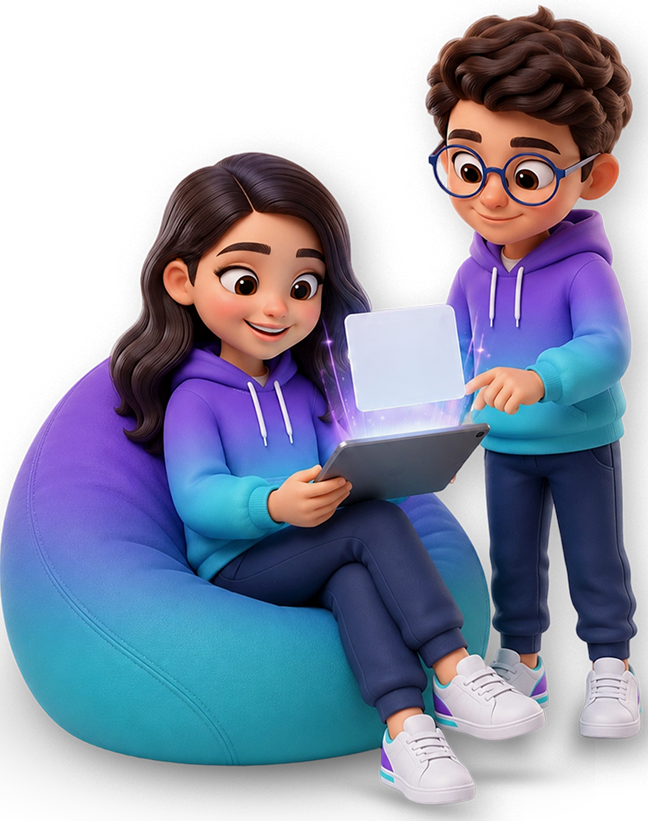
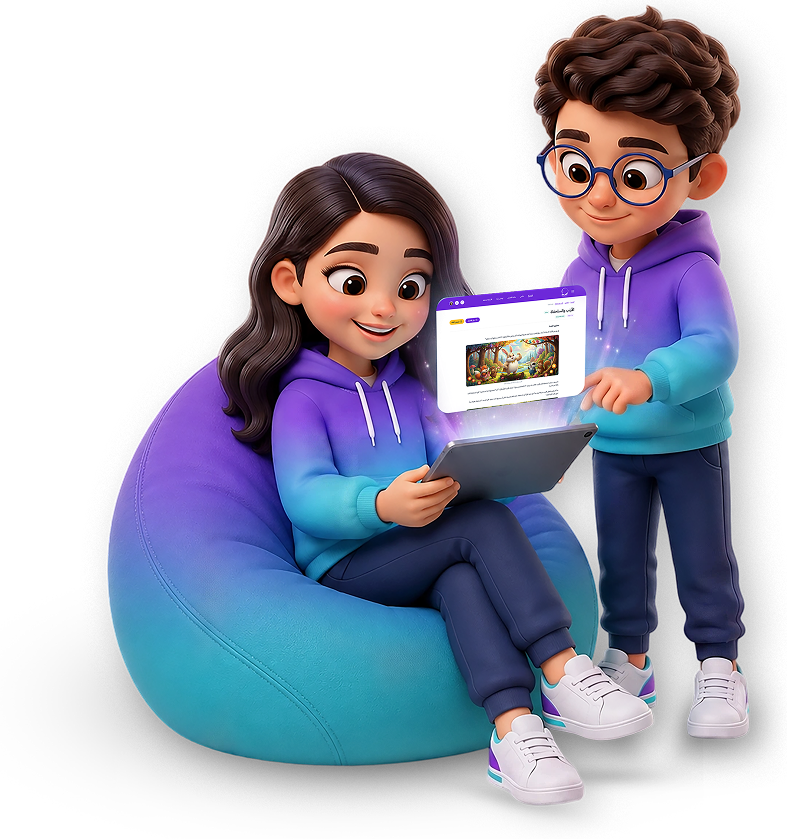
feat: implement responsive header, add 404 page, and install react-scroll dependency

diff --git a/src/app/not-found.tsx b/src/app/not-found.tsx
@@ -1,4 +1,3 @@
-import React from "react";
 import Link from "next/link";
 import Image from "next/image";
 import Header from "@/components/layout/header/Header";
@@ -12,14 +11,14 @@ export default function NotFound() {
       <Header />
 
       {/* Main 404 Hero Container */}
-      <main className="flex-1 flex items-center justify-center relative overflow-hidden py-12 sm:py-20 px-4 sm:px-6 lg:px-8">
+      <main className="flex-1 flex items-center justify-center relative overflow-hidden py-12 sm:py-24 px-4 sm:px-6 lg:px-8">
         {/* Ambient Background Glows */}
-        <div className="absolute top-1/2 right-1/2 transform translate-x-1/2 -translate-y-1/2 w-[500px] h-[500px] bg-mad-purple-200/30 rounded-full blur-3xl pointer-events-none" />
+        <div className="absolute top-1/2 right-1/2 transform translate-x-1/2 -translate-y-1/2 w-125 h-125 bg-mad-purple-200/30 rounded-full blur-3xl pointer-events-none" />
         <div className="absolute top-1/3 left-10 w-72 h-72 bg-mad-main-light/10 rounded-full blur-2xl pointer-events-none" />
 
         <div className="container relative z-10 max-w-4xl mx-auto text-center flex flex-col items-center">
           {/* Bouncing 404 Image Illustration */}
-          <div className="relative w-64 h-52 sm:w-80 sm:h-64 md:w-[440px] md:h-[320px] mx-auto select-none animate-bounce duration-1000">
+          <div className="relative w-64 h-52 sm:w-80 sm:h-64 md:w-110 md:h-80 mx-auto select-none animate-bounce duration-1000">
             <Image
               src="/assets/404.png"
               alt="404 - الصفحة غير موجودة"
@@ -40,11 +39,11 @@ export default function NotFound() {
           </p>
 
           {/* Action Buttons */}
-          <div className="mt-8 sm:mt-10 flex flex-wrap items-center justify-center gap-4 w-full max-w-lg">
+          <div className="mt-8 sm:mt-10 flex flex-wrap items-center justify-center gap-4 w-full ">
             {/* Primary Action Button */}
             <Link
               href="/"
-              className="bg-linear-to-r from-mad-purple-600 via-mad-purple-700 to-mad-purple-800 hover:from-mad-purple-700 hover:to-mad-purple-900 text-mad-white-50 font-bold mad-label-1 px-8 py-4 rounded-full inline-flex items-center justify-center gap-3 transition-all duration-300 shadow-lg shadow-mad-purple-600/30 hover:shadow-xl hover:shadow-mad-purple-600/40 hover:-translate-y-0.5 active:translate-y-0 active:scale-95 flex-1 min-w-[220px] group cursor-pointer"
+              className="bg-linear-to-r from-mad-purple-600 via-mad-purple-700 to-mad-purple-800 hover:from-mad-purple-700 hover:to-mad-purple-900 text-mad-white-50 font-bold mad-label-1 px-8 py-4 rounded-full inline-flex items-center justify-center gap-3 transition-all duration-300 shadow-lg shadow-mad-purple-600/30 hover:shadow-xl hover:shadow-mad-purple-600/40 hover:-translate-y-0.5 active:translate-y-0 active:scale-95 flex-1  w-auto group cursor-pointer"
             >
               <Home className="w-5 h-5 transition-transform group-hover:scale-110" />
               <span>العودة إلى الصفحة الرئيسية</span>

diff --git a/src/components/layout/header/Header.tsx b/src/components/layout/header/Header.tsx
@@ -1,6 +1,7 @@
 "use client";
 
 import React, { useState, useEffect } from "react";
+import { usePathname } from "next/navigation";
 import { Menu } from "lucide-react";
 import Logo from "./Logo";
 import DesktopNav from "./DesktopNav";
@@ -9,14 +10,19 @@ import MobileSearchBar from "./MobileSearchBar";
 import SideMenu from "./SideMenu";
 
 const Header: React.FC = () => {
+  const pathname = usePathname();
+  const isHomePage = pathname === "/";
+
   const [isMenuOpen, setIsMenuOpen] = useState(false);
   const [isSearchOpen, setIsSearchOpen] = useState(false);
   const [activeCategory, setActiveCategory] = useState("home");
   const [searchQuery, setSearchQuery] = useState("");
   const [isScrolled, setIsScrolled] = useState(false);
 
-  // Scroll listener for sticky header styling
+  // Scroll listener for sticky header styling (only active on Home page)
   useEffect(() => {
+    if (!isHomePage) return;
+
     const handleScroll = () => {
       if (window.scrollY > 20) {
         setIsScrolled(true);
@@ -25,9 +31,10 @@ const Header: React.FC = () => {
       }
     };
 
+    handleScroll();
     window.addEventListener("scroll", handleScroll, { passive: true });
     return () => window.removeEventListener("scroll", handleScroll);
-  }, []);
+  }, [isHomePage]);
 
   // Disable body scroll when Side Menu drawer is open
   useEffect(() => {
@@ -55,14 +62,18 @@ const Header: React.FC = () => {
 
   return (
     <>
-      {/* Sticky Header Container */}
+      {/* Header Container */}
       <header
         dir="rtl"
-        className={`fixed top-0 left-0 right-0 z-40 w-full transition-all duration-300 px-4 sm:px-6 lg:px-12 ${
-          isScrolled
-            ? "bg-mad-main/95 backdrop-blur-md shadow-lg py-3 border-b border-white/10"
-            : "bg-transparent py-4 sm:py-5"
-        }`}
+        className={
+          isHomePage
+            ? `fixed top-0 left-0 right-0 z-40 w-full transition-all duration-300 px-4 sm:px-6 lg:px-12 ${
+                isScrolled
+                  ? "bg-mad-main/95 backdrop-blur-md shadow-lg py-3 border-b border-white/10"
+                  : "bg-transparent py-4 sm:py-5"
+              }`
+            : "sticky top-0 left-0 right-0 z-40 w-full transition-all duration-300 px-4 sm:px-6 lg:px-12 bg-mad-main shadow-lg py-3 border-b border-white/10"
+        }
       >
         <div className="container mx-auto flex items-center justify-between">
           {/* ==========================================
